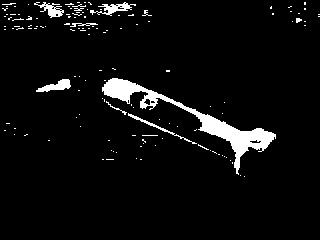
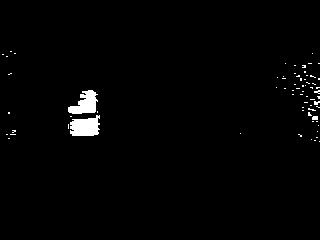
hoo!

diff --git a/main.c b/main.c
@@ -159,17 +159,32 @@ int takePicture(const char *path){
 	}
 	return 0;
 }
+int gx=0;
+CvMoments moments;
 void excolor(){
 	if((img_origin = cvQueryFrame(capture)) == NULL) return;
 	cvSplit(img_origin,img[2],img[1],img[0],NULL);//BGR
 
 	cvThreshold(img[2],imgThreshold[2],100,255,CV_THRESH_BINARY);
-	cvDiv(img[2],img[1],imgTmp,10);
-	cvThreshold(imgTmp,imgThreshold[1],10,255,CV_THRESH_BINARY);
-	cvDiv(img[2],img[0],imgTmp,10);
-	cvThreshold(imgTmp,imgThreshold[0],10,255,CV_THRESH_BINARY);
+	cvDiv(img[2],img[1],imgTmp,4);
+	cvThreshold(imgTmp,imgThreshold[1],4,255,CV_THRESH_BINARY);
+	cvDiv(img[2],img[0],imgTmp,4);
+	cvThreshold(imgTmp,imgThreshold[0],4,255,CV_THRESH_BINARY);
 	cvAnd(imgThreshold[1],imgThreshold[0],imgTmp,NULL);
 	cvAnd(imgTmp,imgThreshold[2],imgResult,NULL);
+
+	// cvThreshold(img[2],imgThreshold[2],100,255,CV_THRESH_BINARY);
+	// cvDiv(img[2],img[1],imgTmp,10);
+	// cvThreshold(imgTmp,imgThreshold[1],10,255,CV_THRESH_BINARY);
+	// cvDiv(img[2],img[0],imgTmp,10);
+	// cvThreshold(imgTmp,imgThreshold[0],10,255,CV_THRESH_BINARY);
+	// cvAnd(imgThreshold[1],imgThreshold[0],imgTmp,NULL);
+	// cvAnd(imgTmp,imgThreshold[2],imgResult,NULL);
+
+	cvMoments(imgResult,&moments,0);
+	double m00 = cvGetSpatialMoment(&moments,0,0);
+	double m10 = cvGetSpatialMoment(&moments,1,0);
+	gx = m10/m00;
 }
 void bz_num(int num){
 	int i=0;
@@ -318,7 +333,9 @@ void step5(int pow){
 	delay(1000);
 	while((read_adc(4)>sensor)&&(read_adc(5)>sensor)&&(read_adc(6)>sensor)&&(read_adc(7)>sensor));
 	int turn=0;
-	while(turn != 1){
+	int cnt=0;
+	while(cnt<300 || pitch > 100){
+		update_mpu();
 		if(read_adc(4)<sensor){
 			motor(0,pow+10);
 			motor(1,pow);
@@ -347,7 +364,25 @@ void step5(int pow){
 				turn =1;
 			}
 		}
+		printf("%d\n",cnt++);
+		if(cnt > 250 && cnt < 300) yaw=0;
 	}
+	motor(0,20);
+	motor(1,20);
+	delay(1000);
+	while(yaw<400){
+		motor(0,-20);
+		motor(1,20);
+		update_mpu();
+		printf("step2\t1\t%d\n",yaw);
+		delay(10);
+	}
+	motor(0,0);
+	motor(1,0);
+	delay(500);
+	motor(0,-20);
+	motor(1,-20);
+	delay(1000);
 }
 int main(){
 	wiringPiSetupGpio();
@@ -356,8 +391,20 @@ int main(){
 	set_spi();
 	set_servo();
 	set_gpio();
+	setcam();
 	bz_num(1);
 
+	// char path[256];
+	// while(1){
+	// 	int i=0;
+	// 	for(;i<10;i++){
+	// 		sprintf(path, "photo/cam%05d.jpg", i);
+	// 		excolor();
+	// 		takePicture(path);
+	// 		printf("gx\t%d\n",gx);
+	// 	}
+	// 	delay(2000);
+	// }
 	int case_num = 1;
 	while(read_adc(2)<sensor){
 		if(read_adc(0)>sensor){
@@ -386,7 +433,6 @@ int main(){
 			step3(20);
 			bz_num(4);
 			step5(30);
-			bz_num(1);
 		case 5:
 			bz_num(5);
 	}
@@ -401,41 +447,19 @@ int main(){
 		printf("\n");
 		delay(100);
 	}
-	motor(0,-50);
-	motor(1,-50);
-	while(1);
-	while(1){
-		int i=0;
-		for(i=0;i<50;i++){
-			motor(0,i);
-			motor(1,i);
-			delay(200);
-		}
-		for(i=50;i>-50;i--){
-			motor(0,i);
-			motor(1,i);
-			delay(200);
-		}
-		for(i=-50;i<0;i++){
-			motor(0,i);
-			motor(1,i);
-			delay(200);
-		}
-	}
 	while(1){
 		update_mpu();
 		printf("%d\t%d\n",yaw,pitch);
 		delay(10);
 	}
 
-	char path[256];
-	int i=0;
-	setcam();
-	for(;i<10;i++){
-		sprintf(path, "photo/cam%05d.jpg", i);
-		excolor();
-		takePicture(path);
-	}
+	// char path[256];
+	// setcam();
+	// for(;i<10;i++){
+	// 	sprintf(path, "photo/cam%05d.jpg", i);
+	// 	excolor();
+	// 	takePicture(path);
+	// }
 	cvReleaseCapture(&capture);
 
 	while(1){
